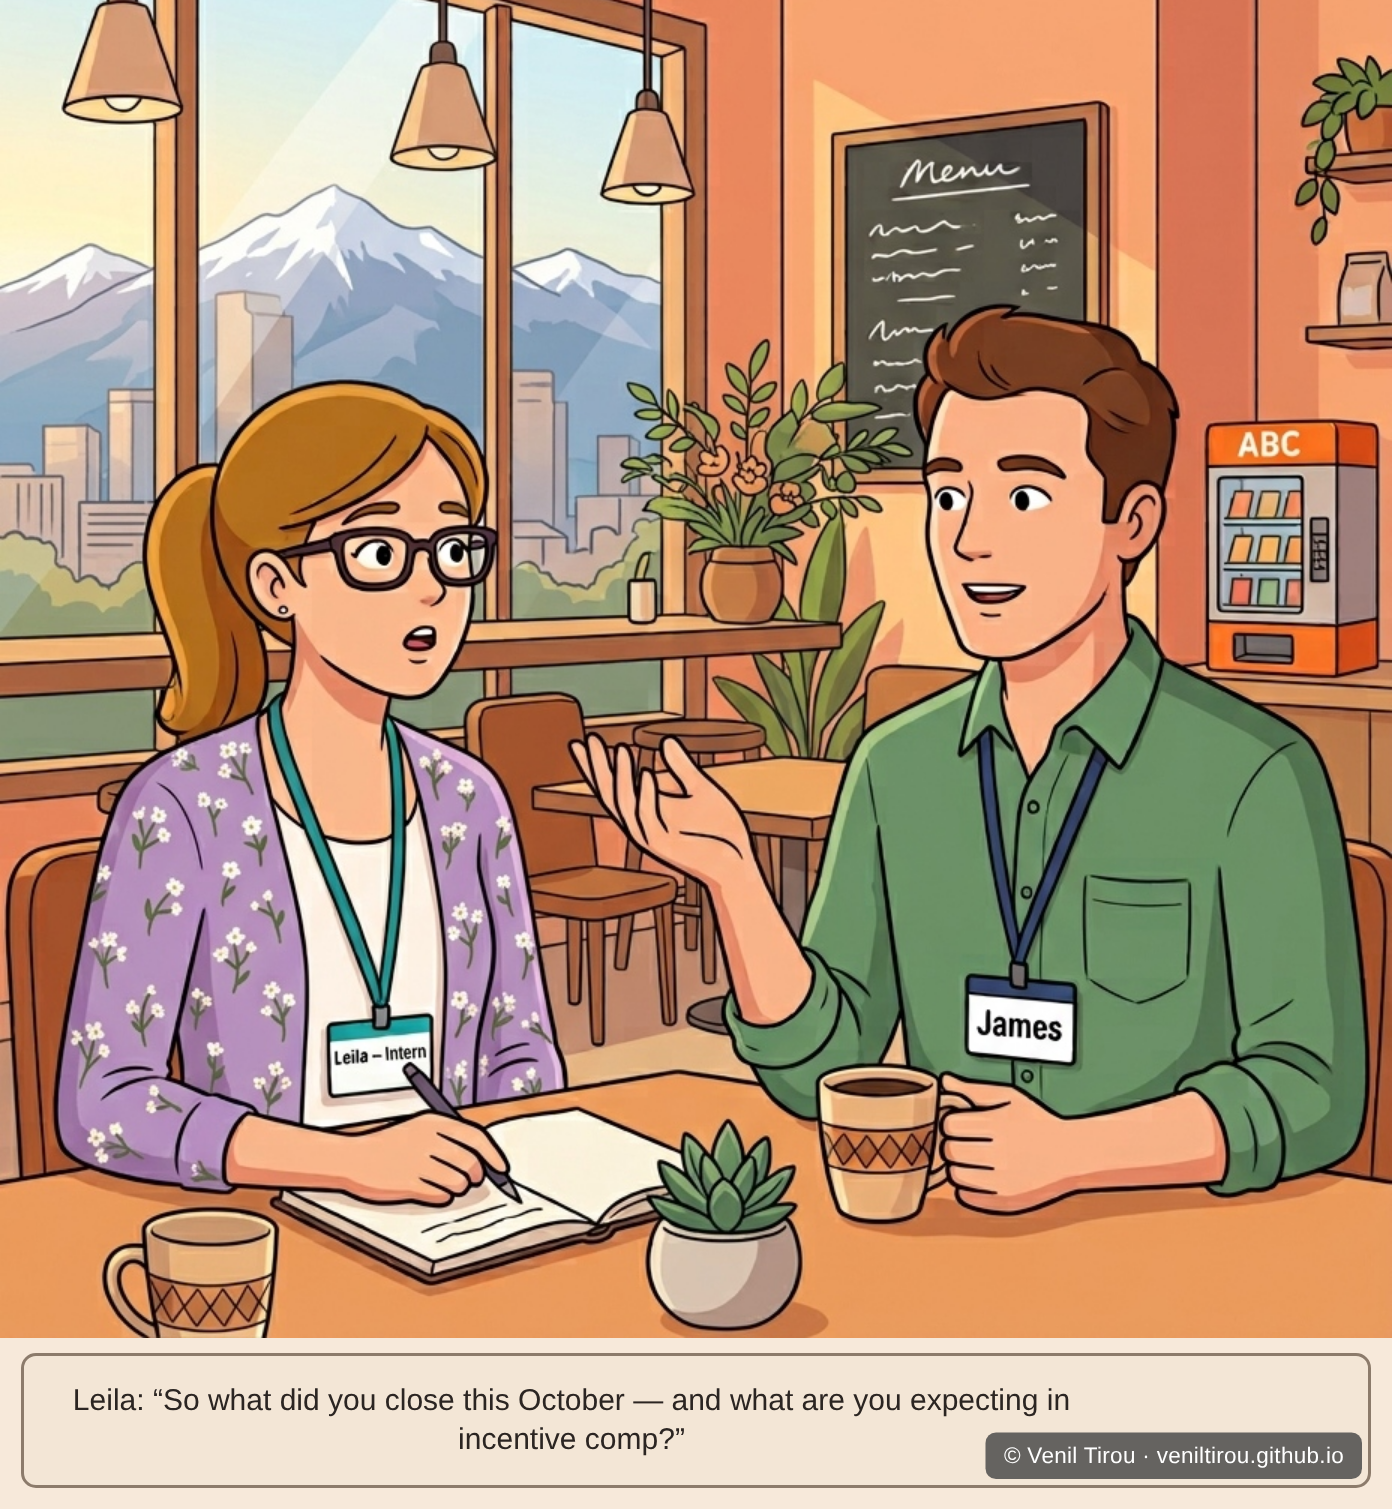
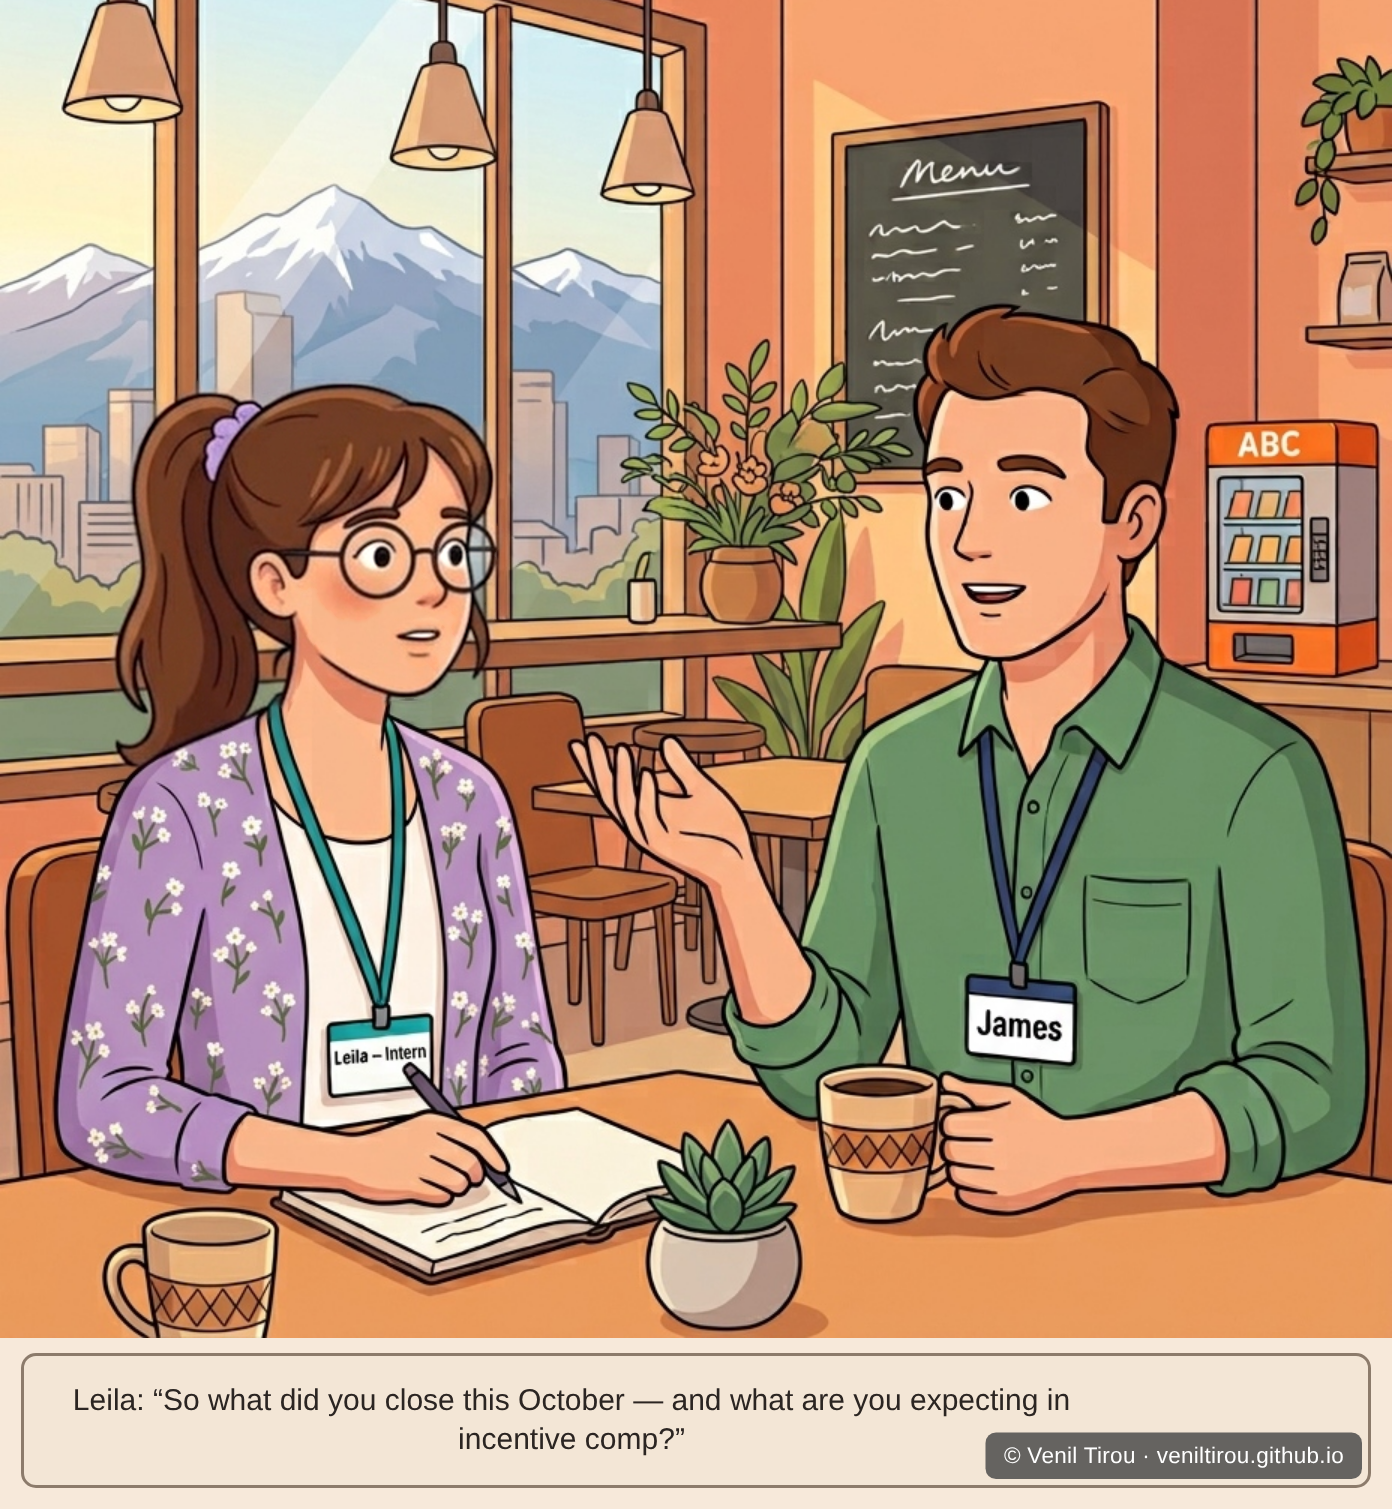
Redraw Lisa and Leila to their canonical look in six older images
Cast lineup (both cards), I2 Scene 1, I4 Prologue, I1 Scene 10, I3 Scene 4
and Chapter 4 Scene 1. Only the person was replaced; captions, screens and
footers are the original pixels. In I1 Scene 10 the whiteboard diagram moves
slightly right so Lisa's hair no longer covers "Direct".

Claude-Session: https://claude.ai/code/session_01AkUNH4KF5rPMhPp6XmNQB4

Changed region(s): [[0.0618, 0.2492, 0.3707, 0.5295]]

diff --git a/CHARACTERS.md b/CHARACTERS.md
@@ -53,8 +53,8 @@ below describe target state for new work, not a mandate to fix old work.
 | **Sarah** | ⚪ Free (does not appear in Friday Debrief) | *Frozen:* Incentive Compensation, OIC Integrations | No action needed now — she isn't in the chapter currently being touched. If she's written into a future new chapter, that's when she graduates to 🟡 Pending and gets a canonical pick, styled to match James's locked look. |
 | **Harrison** | ⚪ Free (one lineage, both frozen so far) | *Frozen:* OIC Integrations. *Active:* Friday Debrief | Both his appearances are within scope-frozen chapters as of this policy — Friday Debrief is being corrected for text/disclaimer issues but his design itself isn't being touched. Treat as a Rule 3 candidate the moment he's written into a chapter outside the OIC storyline. |
 | **Leila (Home, Sweet Home)** | ⚪ Free | *Frozen:* OIC Integrations | Appeared once, in a frozen chapter. No obligation. A different person from Leila at ABC (below). |
-| **Lisa** | 🔒 Locked (decided 2026-10-28) | *Active:* The World of ABC Corporation (cast lineup, fourth card); I1 One Deal, Three Credits (Scene 10); I2 When the Payment Isn't Final (Scene 1, small figure); I3 Disputes (Scene 4); Chapter 4 Oracle Commerce: Mile High City Bank (Scene 1); I5 Leila's Nine-Month Runway; I6 From Order to Earnings. *Frozen:* Chapter 3 Incentive Compensation | Compensation Analyst. **Canonical look (the I5/I6 lineage):** long wavy dark-brown hair past the shoulders, warm tan skin, burnt-orange blazer over a white V-neck top, navy lanyard with a white "Lisa" badge, dark teal trousers, dark low heels. Reference: `characters/lisa-reference.jpg` (cropped from `leila-runway/Runway01.jpg` and `Runway07.jpg`). Still drawn in an older look, awaiting redraw: the cast lineup card, I1 Scene 10, I2 Scene 1, I3 Scene 4, Chapter 4 Scene 1 (see open items). |
-| **Leila (ABC)** | 🔒 Locked (canonical look changed 2026-10-28) | *Active:* I4 Three Transactions, One Paycheck (Prologue); The World of ABC Corporation (cast lineup, sixth card); I5 Leila's Nine-Month Runway; I6 From Order to Earnings | Joined as the fall intern from a local Denver university (I4, October 2026); a junior sales rep on James's team from I5 on. **Canonical look (the I5/I6 lineage):** early twenties, medium chestnut-brown high ponytail with a lavender scrunchie, thin round dark glasses, lavender cardigan with a lighter lavender flower pattern over a white top, mustard-yellow trousers, lavender sneakers. **The lanyard marks her role:** teal with a "Leila – Intern" badge while she is an intern (I4); green with a "Leila" badge as a junior rep (I5 on). Reference: `characters/leila-reference.jpg` (cropped from `leila-runway/Runway01.jpg` and `Runway03.jpg`). This replaces the earlier lock (honey-brown ponytail, dark rectangular glasses, dark grey trousers). Still drawn in that earlier look, awaiting redraw: the cast lineup card and the I4 Prologue (see open items). |
+| **Lisa** | 🔒 Locked (decided 2026-10-28) | *Active:* The World of ABC Corporation (cast lineup, fourth card); I1 One Deal, Three Credits (Scene 10); I2 When the Payment Isn't Final (Scene 1, small figure); I3 Disputes (Scene 4); Chapter 4 Oracle Commerce: Mile High City Bank (Scene 1); I5 Leila's Nine-Month Runway; I6 From Order to Earnings. *Frozen:* Chapter 3 Incentive Compensation | Compensation Analyst. **Canonical look (the I5/I6 lineage):** long wavy dark-brown hair past the shoulders, warm tan skin, burnt-orange blazer over a white V-neck top, navy lanyard with a white "Lisa" badge, dark teal trousers, dark low heels. Reference: `characters/lisa-reference.jpg` (cropped from `leila-runway/Runway01.jpg` and `Runway07.jpg`). Every active appearance now matches: the cast lineup card, I1 Scene 10, I2 Scene 1, I3 Scene 4 and Chapter 4 Scene 1 were redrawn on 2026-10-28. In I1 Scene 10 the whiteboard diagram was moved slightly right and scaled to 95% so her longer hair no longer covers "Direct". |
+| **Leila (ABC)** | 🔒 Locked (canonical look changed 2026-10-28) | *Active:* I4 Three Transactions, One Paycheck (Prologue); The World of ABC Corporation (cast lineup, sixth card); I5 Leila's Nine-Month Runway; I6 From Order to Earnings | Joined as the fall intern from a local Denver university (I4, October 2026); a junior sales rep on James's team from I5 on. **Canonical look (the I5/I6 lineage):** early twenties, medium chestnut-brown high ponytail with a lavender scrunchie, thin round dark glasses, lavender cardigan with a lighter lavender flower pattern over a white top, mustard-yellow trousers, lavender sneakers. **The lanyard marks her role:** teal with a "Leila – Intern" badge while she is an intern (I4); green with a "Leila" badge as a junior rep (I5 on). Reference: `characters/leila-reference.jpg` (cropped from `leila-runway/Runway01.jpg` and `Runway03.jpg`). This replaces the earlier lock (honey-brown ponytail, dark rectangular glasses, dark grey trousers). The cast lineup card and the I4 Prologue were redrawn on 2026-10-28. **Known variance:** the I4 Prologue keeps its original cardigan pattern (small white flowers) because Gemini's redraw of the pattern came out smudged; the colour and cut match, and her hair, glasses and scrunchie are canonical. |
 
 ## Decision log
 
@@ -106,14 +106,15 @@ green as a junior rep). Everything else about her look is fixed.
       canonical version then — don't defer it a second time.
 - [x] Resolve Lisa's and Leila's canonical looks (decision log, 2026-10-28).
 - [x] Cast lineup: Leila's card caption now reads "Junior Sales Rep".
-- [ ] Redraw to the canonical look (only the person changes; paste the
-      redrawn figure back into the original so all text stays identical):
-  - [ ] `abc-world/Scene01.png`: Lisa's card (fourth) and Leila's card
+- [x] Redraw to the canonical look (only the person changes; the redrawn
+      figure is pasted back into the original so all text stays identical),
+      done 2026-10-28:
+  - [x] `abc-world/Scene01.png`: Lisa's card (fourth) and Leila's card
         (sixth, green junior-rep lanyard)
-  - [ ] `payment-not-final/Scene01.png`: the small Lisa figure (reuse the
+  - [x] `payment-not-final/Scene01.png`: the small Lisa figure (reuses the
         new lineup figure)
-  - [ ] `ic-three-transactions/Prologue.png`: Leila's hair and glasses
-        (keep the teal intern lanyard and badge)
-  - [ ] `route66-three-credits/Scene10.png`: Lisa
-  - [ ] `disputes/Scene04.png`: Lisa
-  - [ ] `commerce-mile-high/Scene01.png`: Lisa
+  - [x] `ic-three-transactions/Prologue.png`: Leila's hair, glasses and
+        scrunchie (teal intern lanyard and badge kept)
+  - [x] `route66-three-credits/Scene10.png`: Lisa
+  - [x] `disputes/Scene04.png`: Lisa
+  - [x] `commerce-mile-high/Scene01.png`: Lisa
